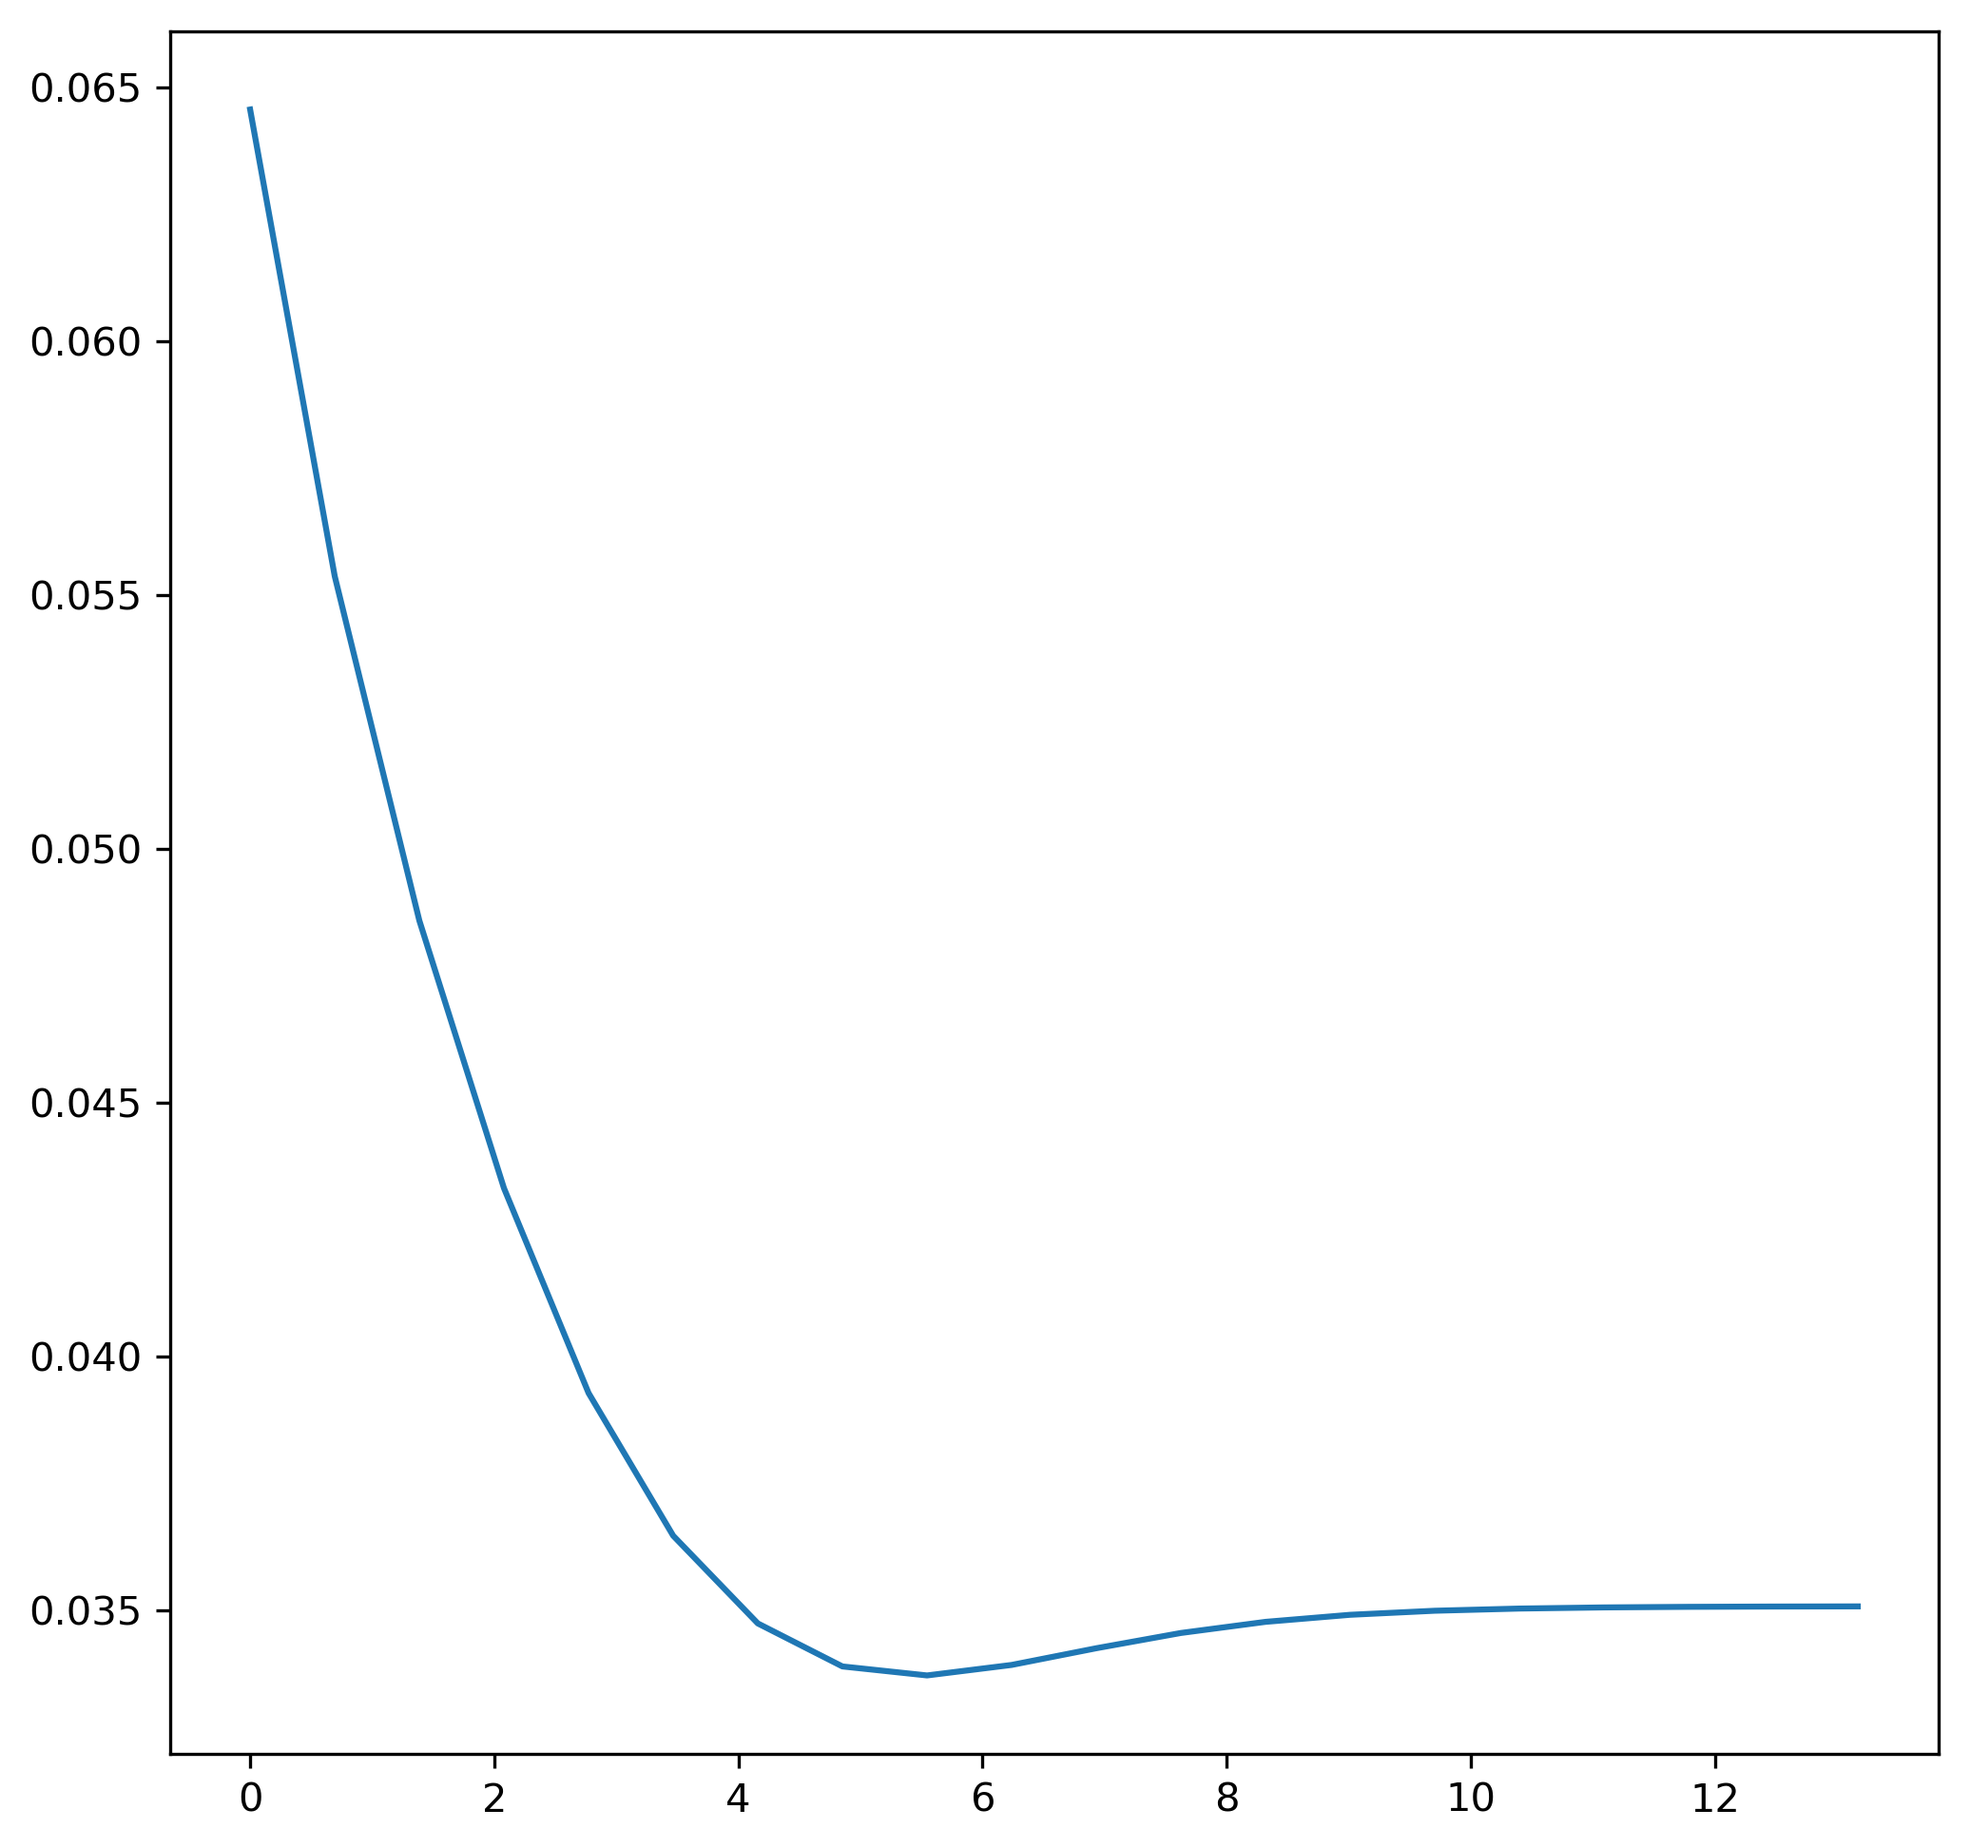
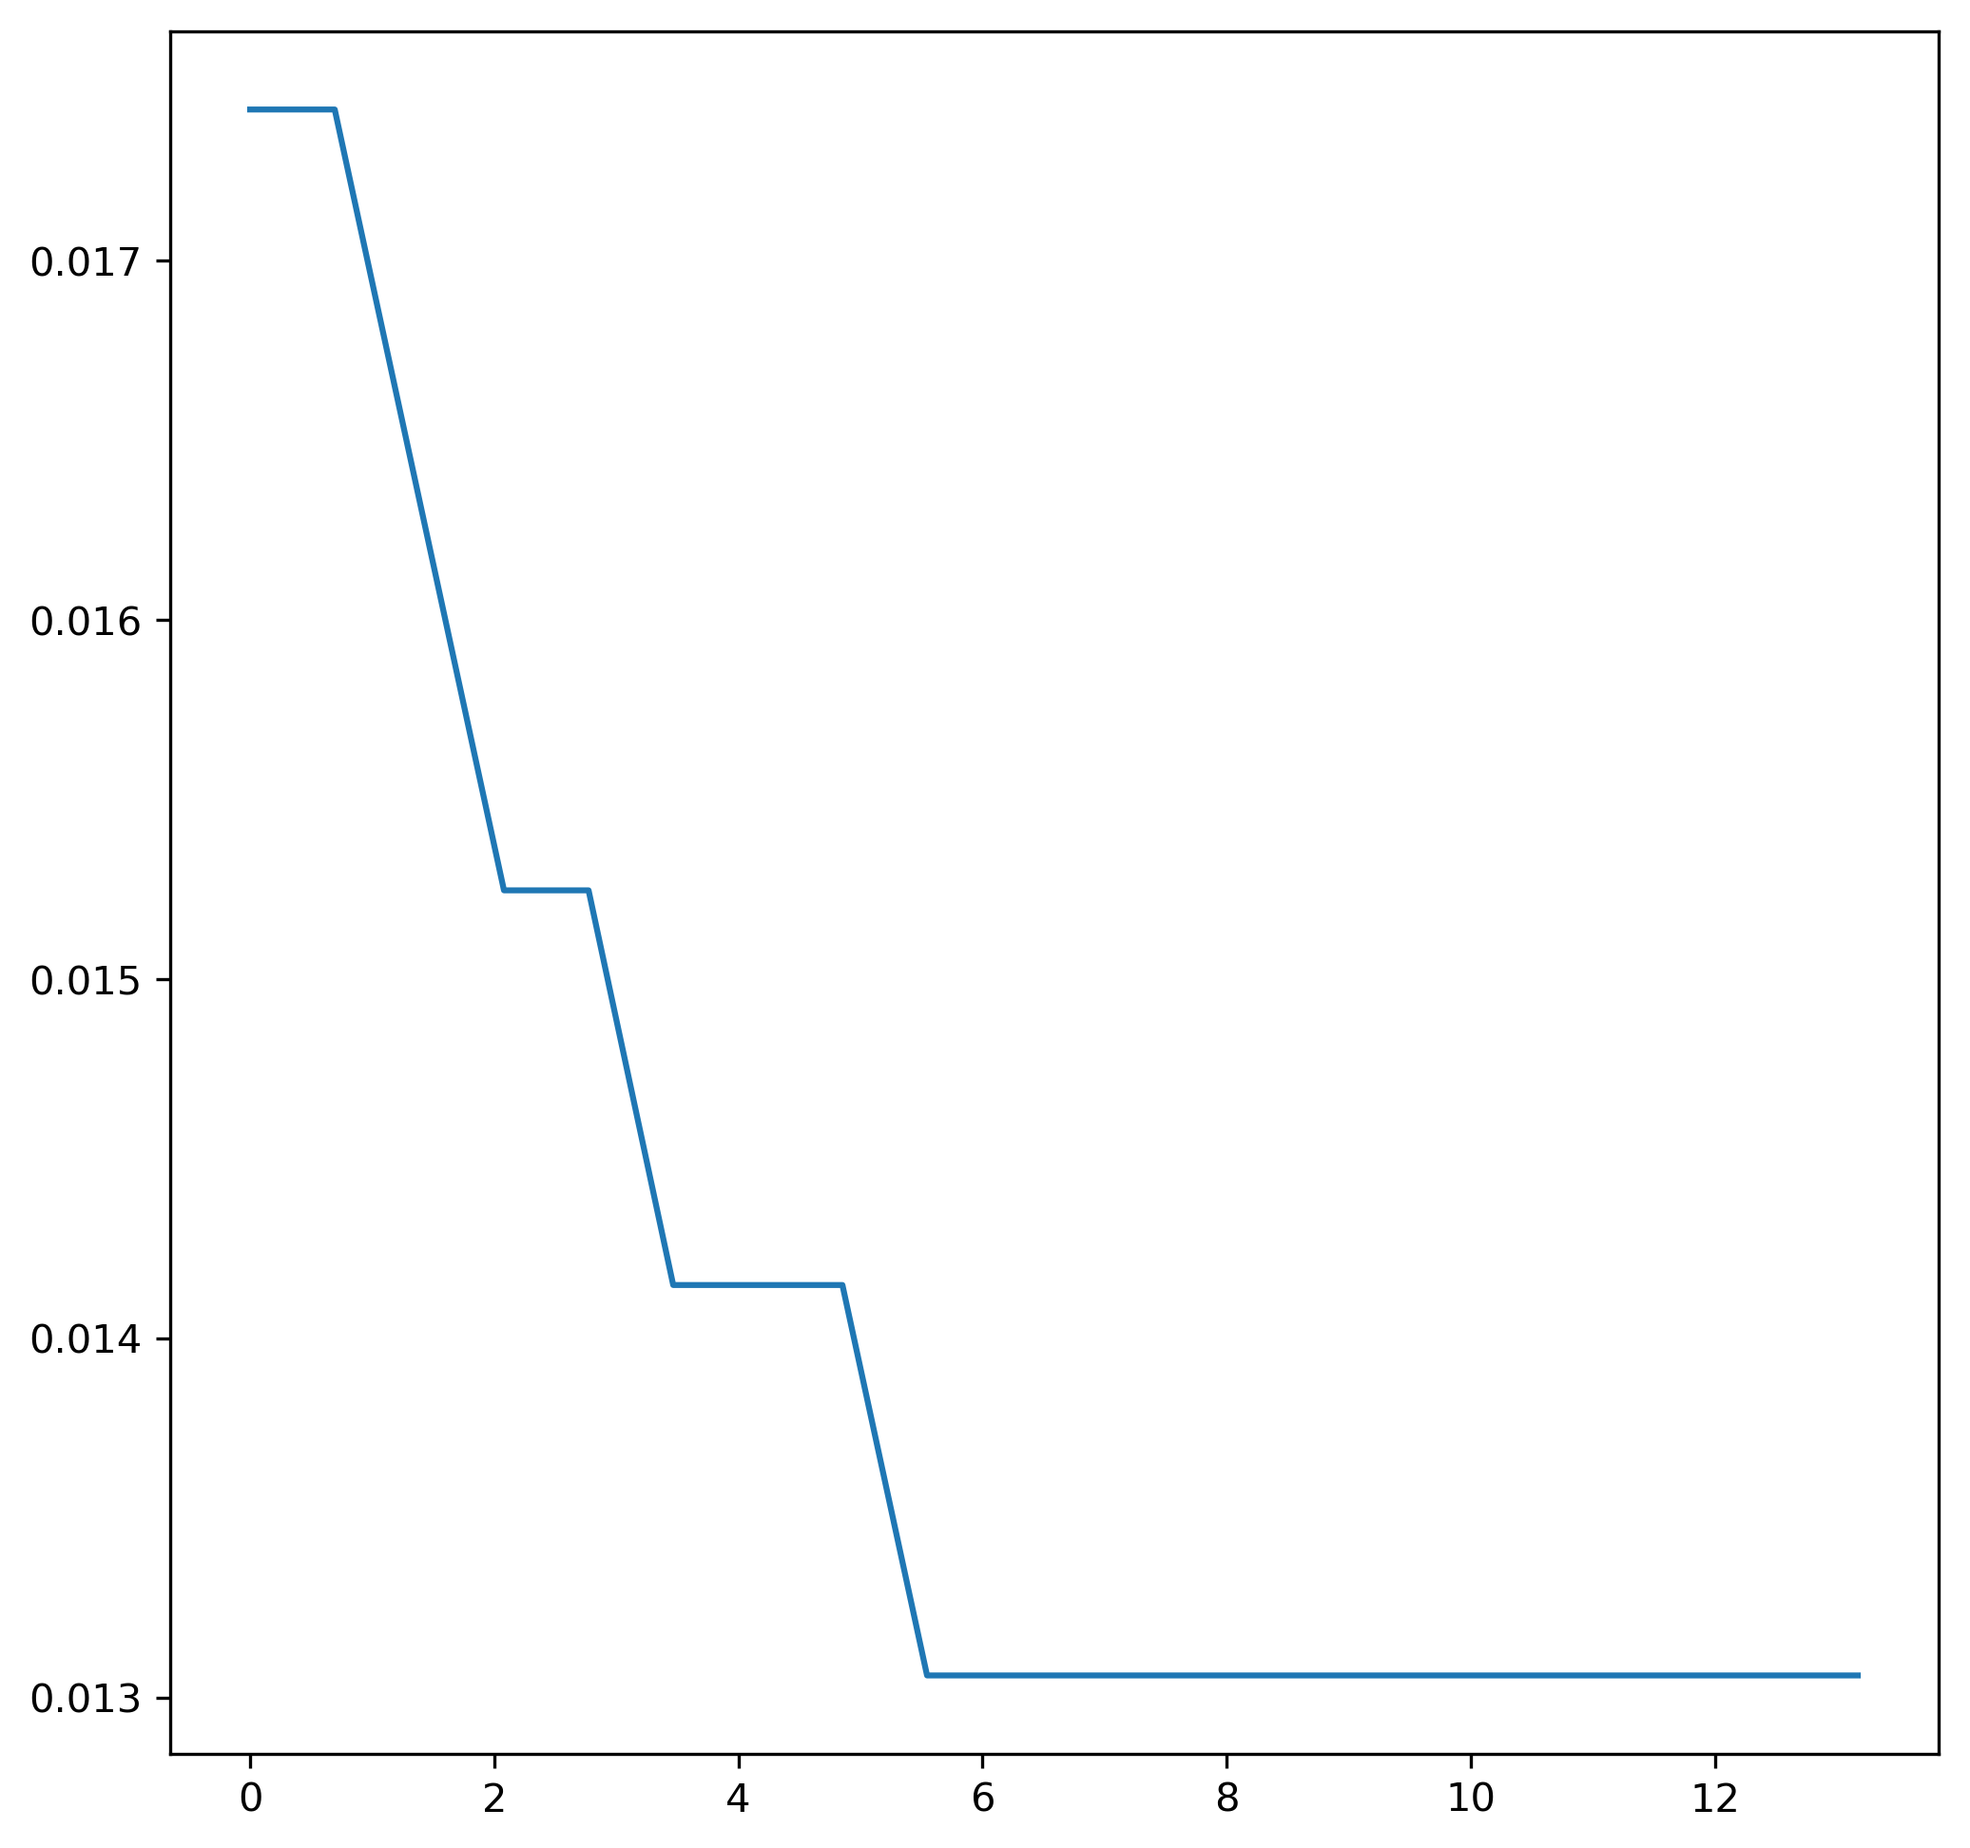
update calc_fold

diff --git a/TP1.py b/TP1.py
@@ -12,7 +12,6 @@ import matplotlib.pyplot as plt
 from sklearn.linear_model import LogisticRegression
 from math import log
 from sklearn.cross_validation import StratifiedKFold
-from sklearn.model_selection import StratifiedKFold as skf
 from sklearn.cross_validation import cross_val_score
 from sklearn.cross_validation import train_test_split
 from sklearn.utils import shuffle
@@ -68,34 +67,25 @@ def MCNmar(PredA, PredB,y):
     NTbFa = sum(TrueB*FalseA)
     return ((abs(NTaFb-NTbFa)-1)**2)*1.0/(NTaFb+NTbFa)
 
-def calc_fold(feats, X,Y, train_ix,valid_ix,C=1e12):
+def calc_fold(X,Y, Kf,C=1e12):
     """return error for train and validation sets"""
     reg = LogisticRegression(C=C, tol=1e-10)
-    reg.fit(X[train_ix,:feats],Y[train_ix])
-    prob = reg.predict_proba(X[:,:feats])[:,1]    
-    squares = (prob-Y)**2
-    return np.mean(squares[train_ix]),np.mean(squares[valid_ix])
+    scores = cross_val_score(reg, X, Y,cv=Kf)
+    va_err = 1-np.mean(scores)
+    return va_err
 
 def Logistic(Kf, X_r, Y_r, X_t, Y_t):
     best_C=1
-    feats=4
-    folds = 5
-    kf = skf(n_splits=folds)
     errs = []
     C=1
     Cs=[]
     best_va= 10000
     """Generate folds and loop"""
     for ic in range(20):
-        
-        tr_err=va_err=0
-        for tr_ix, va_ix in kf.split(Y_r, Y_r):  #Y_r vetor de classes para treino
-            r,v = calc_fold(feats, X_r, Y_r, tr_ix, va_ix, C=C )
-            tr_err += r
-            va_err += v
-        if va_err/folds <= best_va:
-            best_va = va_err/folds; best_C = C
-        errs.append(va_err/folds)
+        va_err = calc_fold(X_r, Y_r, Kf,C=C )
+        if va_err <= best_va:
+            best_va = va_err; best_C = C
+        errs.append(va_err)
         Cs.append(log(C))
         C*=2
     errs = np.array(errs)
@@ -105,7 +95,7 @@ def Logistic(Kf, X_r, Y_r, X_t, Y_t):
     fig.savefig('p_3.png', dpi=300, bbox_inches = 'tight')
     plt.show()
     plt.close()
-    reg=LogisticRegression(C=best_C, tol=1e-10); reg.fit(X_r[:feats], Y_r[:feats])
+    reg=LogisticRegression(C=best_C, tol=1e-10); reg.fit(X_r, Y_r)
     return 1-reg.score(X_t, Y_t), best_C, reg.predict(X_t)
     
     
